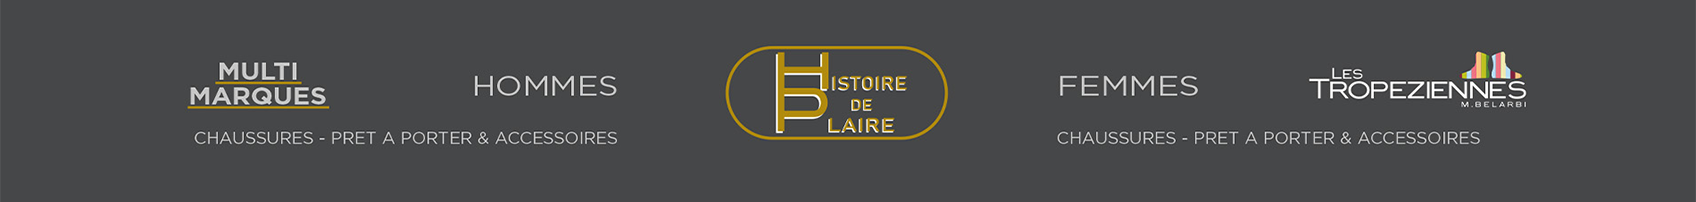
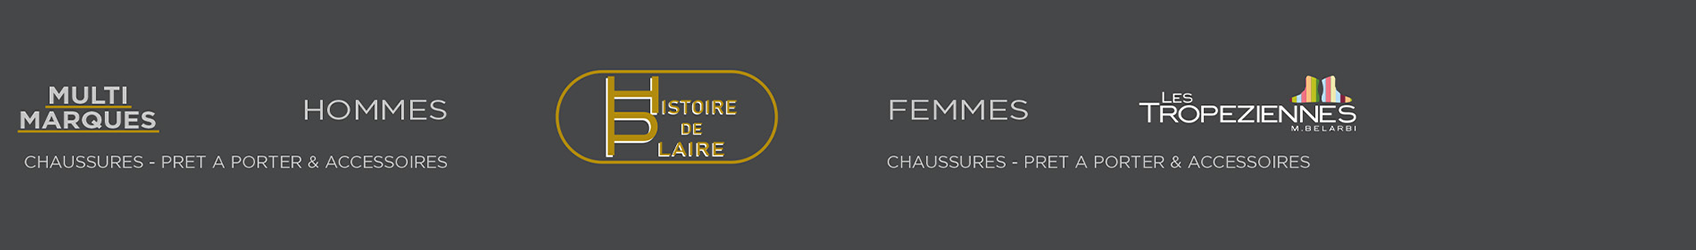
essai largeur bandeau

Changed region(s): [[0.0, 0.2079, 0.9062, 0.7129]]

diff --git a/style.css b/style.css
@@ -30,9 +30,6 @@ body{
     width: 1900px;
     height: 278px;
     
-   
-  
-
     
 }
 
@@ -191,7 +188,7 @@ h3{
 .item6{
     grid-column-start: 4;
     grid-row-start:1;
-    padding-left: 20px;
+    padding-left: 0px;
     text-align: center;
     
 }
@@ -399,14 +396,27 @@ text-decoration: none;
     .container{
         width: 100vh;
         display: grid;
-        grid-template-columns: repeat(6, 290px);
+        grid-template-columns: repeat(6, 1fr);
         grid-auto-flow: dense;
         grid-template-rows: auto  auto auto 260px;
         height: 100vh;
-        padding: 20px; 
+        padding: 20px;
         box-sizing: border-box;
-        padding: 5px;
+      
        
         
     }
+    .bandeau{
+        text-align: left;
+        font-size: 2em;
+        max-width: 1300px;
+       
+      
+    
+        
+    }
+}
+
+@media screen and {
+    
 }

diff --git a/index.html b/index.html
@@ -16,7 +16,7 @@
 
 <body>
 <div class="bandeau">
- <a href="index.html"><img src="./img/bandeau-histoire-de-plaire-2.png" alt="les tropeziennes tamaris natural world schott bugatti chaussures sandales shorts pantalons robes sainte-maxime golf-de-saint-tropez"></a>
+ <a href="index.html"><img src="./img/bandeau-histoire-de-plaire-3.png" alt="les tropeziennes tamaris natural world schott bugatti chaussures sandales shorts pantalons robes sainte-maxime golf-de-saint-tropez"></a>
 </div>
  <section> 
    <p><h3 class="horraires">Horaires d'été 10H à 23H Non stop du 15 Juin au 31 Août</h3></p>
